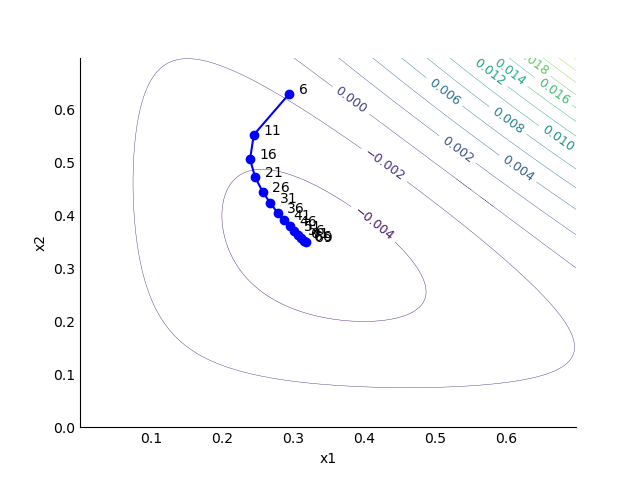
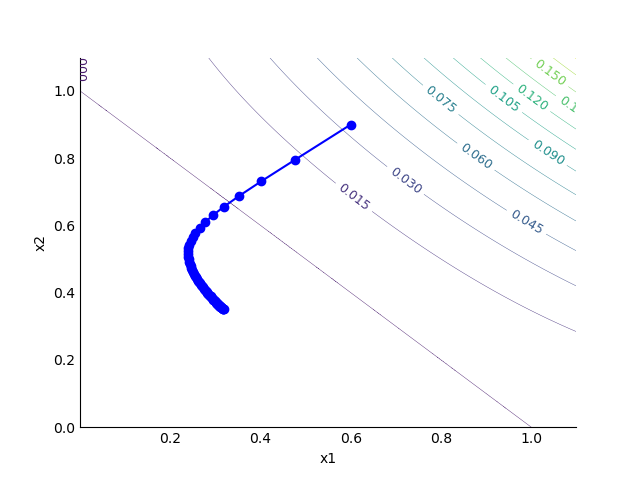
Adjust graphs

diff --git a/task-2/output.py b/task-2/output.py
@@ -89,7 +89,7 @@ def configurePlot(ax):
 def better_contour_plot(points, filename, show=False):
     fig, ax = plt.subplots()
 
-    X, Y = np.meshgrid(np.arange(0, 0.7, 0.001), np.arange(0, 0.7, 0.001))
+    X, Y = np.meshgrid(np.arange(0, 1.1, 0.001), np.arange(0, 1.1, 0.001))
     Z = -0.125 * X * Y * (1 - X - Y)
 
     CS = ax.contour(X, Y, Z, 15, linewidths=0.3)
@@ -98,23 +98,23 @@ def better_contour_plot(points, filename, show=False):
     x_points = [{
         'val': point[0],
         'num': i + 1
-    } for i, point in enumerate(points)
-                if (i % 5 == 0 or i == len(points) - 1) and i != 0]
+    } for i, point in enumerate(points)]
+    # if (i % 5 == 0 or i == len(points) - 1) and i != 0]
     y_points = [{
         'val': point[1],
         'num': i + 1
-    } for i, point in enumerate(points)
-                if (i % 5 == 0 or i == len(points) - 1) and i != 0]
+    } for i, point in enumerate(points)]
+    # if (i % 5 == 0 or i == len(points) - 1) and i != 0]
 
     x_points_val = [x['val'] for x in x_points]
     y_points_val = [y['val'] for y in y_points]
     ax.plot(x_points_val, y_points_val, 'bo-')
 
-    for i in range(len(x_points)):
-        ax.annotate(x_points[i]['num'],
-                    xy=(x_points[i]['val'], y_points[i]['val']),
-                    xytext=(7, 0),
-                    textcoords='offset points')
+    # for i in range(len(x_points)):
+    #     ax.annotate(x_points[i]['num'],
+    #                 xy=(x_points[i]['val'], y_points[i]['val']),
+    #                 xytext=(7, 0),
+    #                 textcoords='offset points')
 
     # ax.set_xlim([0.2, 0.6])  # set x-axis limits
     # ax.set_ylim([0.2, 0.5])  # set y-axis limits
@@ -157,25 +157,20 @@ def print_results(function_uses: int,
                   history: list,
                   res,
                   iterations: int,
-                  additional_task_stats: dict = {}) -> None:
+                  additional_task_stats: dict = {},
+                  stats_val=[]) -> None:
     print(f'Objective function was used {function_uses} times.')
     print(f'Objective function made {iterations} iterations.')
     print('Algorithm\'s results:')
     pprint.pprint(res)
 
     if 'iterations' and 'function_uses' and 'count' in additional_task_stats:
-        print(
-            f'Algorithm used {additional_task_stats["count"]}'
-            'additional tasks.'
-        )
-        print(
-            f'Additional tasks did {additional_task_stats["iterations"]}'
-            'iterations in total.'
-        )
-        print(
-            'Additional tasks used the objective function'
-            f'{additional_task_stats["function_uses"]} times.'
-        )
+        print(f'Algorithm used {additional_task_stats["count"]} '
+              'additional tasks.')
+        print(f'Additional tasks did {additional_task_stats["iterations"]} '
+              'iterations in total.')
+        print('Additional tasks used the objective function '
+              f'{additional_task_stats["function_uses"]} times.')
 
     print("History:")
     for point in history:
